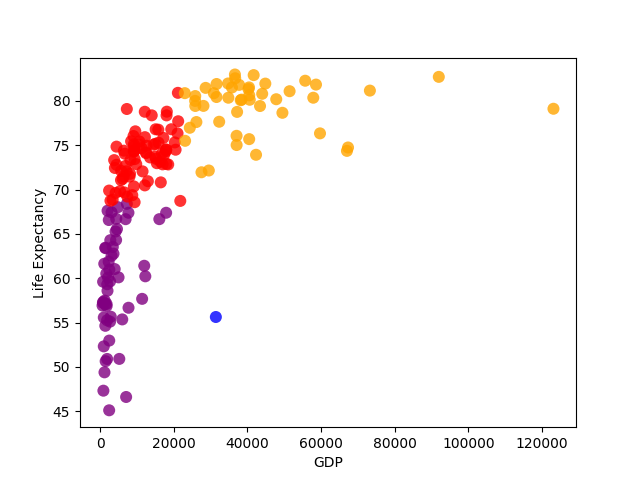
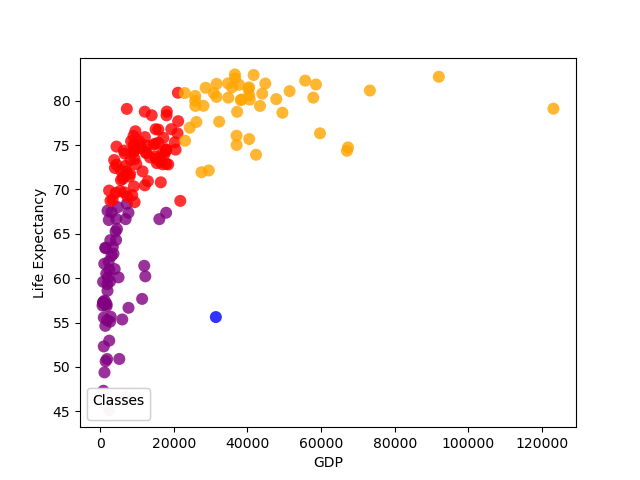
still working

diff --git a/assignment1/src/task_b.py b/assignment1/src/task_b.py
@@ -9,7 +9,7 @@ import matplotlib.pyplot as plt
 
 # 0.253 is a z score indicating 60 (or 40) %.
 STD_CONSTANT = 0.253
-SELECTED_YEAR = 2010
+SELECTED_YEAR = 2017
 
 # Allow for argument in unix. eg. 'python task_b.py 0.2 1999'
 if len(sys.argv) >= 2:
@@ -44,14 +44,23 @@ life_mean = np.mean(merged_entries[LIFE])
 # -------|------- LIFE MEAN
 # purple | blue
 
+                top 40 gdp
+#     x  |       x| x y
+# ---------------------- top 40 life
+#       |       |
+# ---------------------- bottom 40
+#       |       |
+
 col = np.where(
     merged_entries[LIFE] > life_mean - life_std * STD_CONSTANT,
-    np.where(merged_entries[GDP] < gdp_mean + gdp_std * STD_CONSTANT, "red", "orange"),
-    np.where(merged_entries[GDP] < gdp_mean + gdp_std * STD_CONSTANT, "purple", "blue"),
+    
+    np.where(merged_entries[GDP] < gdp_mean + gdp_std , 10, 20),
+    np.where(merged_entries[GDP] < gdp_mean + gdp_std * STD_CONSTANT, 30, 40),
 )
 
 fig, ax = plt.subplots()
 
+print(type(col))
 
 scatter = ax.scatter(
     merged_entries[GDP],
@@ -62,11 +71,14 @@ scatter = ax.scatter(
     edgecolors="none",
 )
 
+kw = dict(prop="colors", num=4)
+
+
 
 # plt.legend()
 plt.xlabel("GDP")
 plt.ylabel("Life Expectancy")
-plt.savefig("../fig/gdp_life_b.png")
+#plt.savefig("../fig/gdp_life_b.png")
 plt.show()
 
 # filter based on having high life-expectancy
@@ -77,6 +89,6 @@ high_life_low_gdp = high_life[high_life[GDP] < gdp_mean - gdp_std * STD_CONSTANT
 # print countries having a high life expectancy and a low gdp
 if len(high_life_low_gdp) > 0:
     print("These countries have high life expectancy and a low gdp: \n")
-    print(high_life_low_gdp["Entity"])
+    print(high_life_low_gdp["Entity"].to_frame().to_string(index=False))
 else:
     print("There are no countries with a high life expectancy and a low gdp")

diff --git a/assignment1/src/task_a.py b/assignment1/src/task_a.py
@@ -1,7 +1,7 @@
 import numpy as np
 import pandas as pd
 
-SELECTED_YEAR = 2010
+SELECTED_YEAR = 2017
 HEADER_TITLE = "Life expectancy (years)"
 
 df = pd.read_csv("../res/life-expectancy.csv")
@@ -19,4 +19,4 @@ top_countries = entries_from_year[
 ]
 
 # print countries being one std above the mean
-print(top_countries["Entity"])
+print(top_countries["Entity"].to_frame().to_string(index=False))

diff --git a/assignment1/src/task_c.py b/assignment1/src/task_c.py
@@ -7,8 +7,8 @@ import sys
 # To which extent can be set by adjusting the variable STD_CONSTANT below
 
 
-STD_CONSTANT = 0.5
-SELECTED_YEAR = 2010
+STD_CONSTANT = 0.243
+SELECTED_YEAR = 2017
 
 # Allow for argument in unix. eg. 'python task_b.py 0.2 1999'
 if len(sys.argv) >= 2:

diff --git a/assignment1/report.md b/assignment1/report.md
@@ -4,7 +4,7 @@
 
 ### State the Assumptions and decisions
 
-- We selected year 2010
+- We selected year 2017 because that was the latest year that both our datasets had data from.
 
 ### Plot
 
@@ -12,7 +12,7 @@
 
 ## Question A
 
-The countries that in 2010 had a life expectancy higher than one standard deviation above the mean were:
+The countries that in 2017 had a life expectancy higher than one standard deviation above the mean were:
 
 - Andorra
 - Anguilla
@@ -28,6 +28,7 @@ The countries that in 2010 had a life expectancy higher than one standard deviat
 - France
 - Germany
 - Greece
+- Guadeloupe
 - Hong Kong
 - Iceland
 - Ireland
@@ -44,12 +45,17 @@ The countries that in 2010 had a life expectancy higher than one standard deviat
 - Netherlands
 - New Zealand
 - Norway
+- Portugal
+- Saint Barthlemy
+- Saint Martin (French part)
 - San Marino
 - Singapore
+- Slovenia
 - South Korea
 - Spain
 - Sweden
 - Switzerland
+- Tokelau
 - United Kingdom
 
 <!--- Consider whether the results obtained seem
@@ -63,9 +69,53 @@ We assume that a high life expectancy is higher than 0.253 standard deviation ab
 
 Using these assumptions, the countries that have high life expectancy but low GDP are shown in blue:
 
-- **Turks and Caicos Islands**
+- Albania
+- Algeria
+- Anguilla
+- Antigua and Barbuda
+- Barbados
+- Bosnia and Herzegovina
+- Brazil
+- China
+- Colombia
+- Ecuador
+- Honduras
+- Macedonia
+- Maldives
+- Morocco
+- Peru
+- Saint Lucia
+- Sri Lanka
+- Tunisia
+- Turks and Caicos Islands
+- Vietnam
 
 ![img](fig/gdp_life_b.png)
+
+```python
+# setup constants
+SELECTED_YEAR = 2017
+GDP = "Output-side real GDP per capita (2011 international-$)"
+LIFE = "Life expectancy (years)"
+
+# use pandas read_csv to read csv files 
+# name them df_gdp and df_life
+
+# filter on selected year
+gdp_entries = df_gdp[(df_gdp["Year"] == SELECTED_YEAR)]
+life_entries = df_life[(df_life["Year"] == SELECTED_YEAR)]
+# merge dataframes
+merged_entries = pd.merge(gdp_entries, life_entries, on=["Code", "Year", "Entity"])
+
+# get standard deviation and mean from entries (same for life_std and life_mean)
+gdp_std = np.std(merged_entries[GDP])
+gdp_mean = np.mean(merged_entries[GDP])
+
+# filter based on having strong economy
+strong_economy = merged_entries[
+    merged_entries[GDP] > gdp_mean + gdp_std * STD_CONSTANT
+]
+```
 
 <!--- Motivera varför våra assumptions är rimliga? --->
 <!--- Consider whether the results obtained seem
@@ -100,7 +150,17 @@ We removed:
 - All the rows that didn't have the year we were interested in.
 - Columns with data that wasn't used in any of the tasks. From both the life expectancy dataset and the gdp dataset we removed the "Code" and "Year" columns.
 
+
+
+
 ```python
+# merge entries with inner join. Excluding entities not available in both datasets.
+merged_entries = pd.merge(gdp_entries, life_entries, on=["Code", "Year", "Entity"])
+
+# Drop Code and Year columns, also rename 
+df_clean = merged_entries.drop(columns=["Code", "Year"])
+df_clean = df_clean.rename(columns={GDP: "GDP (2011 international-$)"})
+
 df_clean.head(2)
 ```
 
